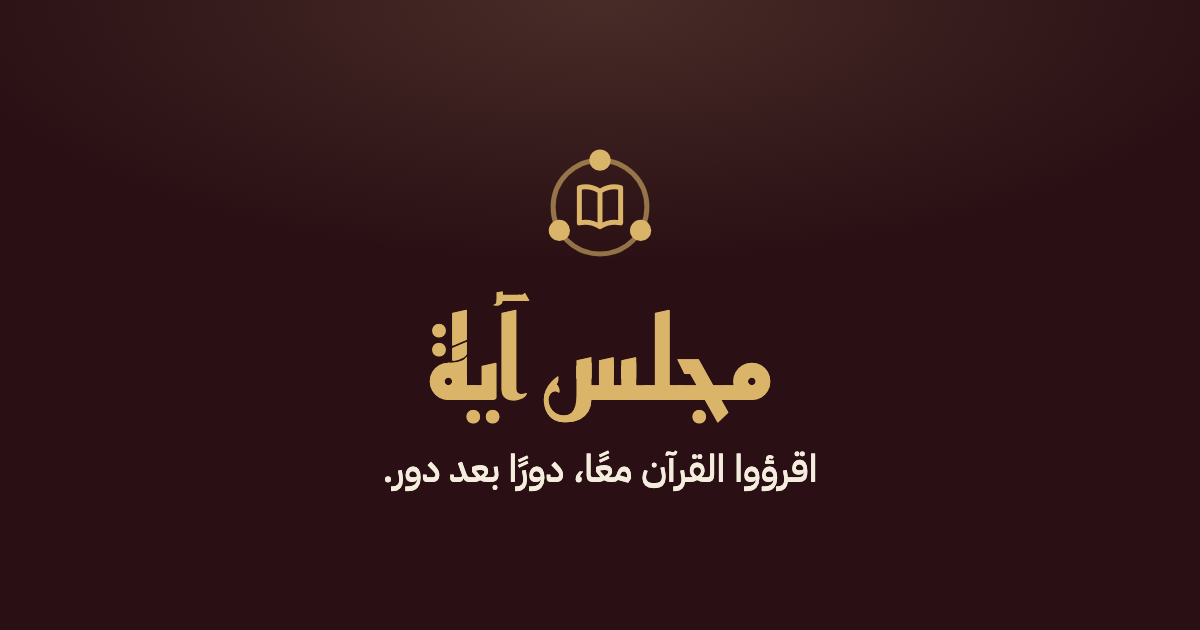
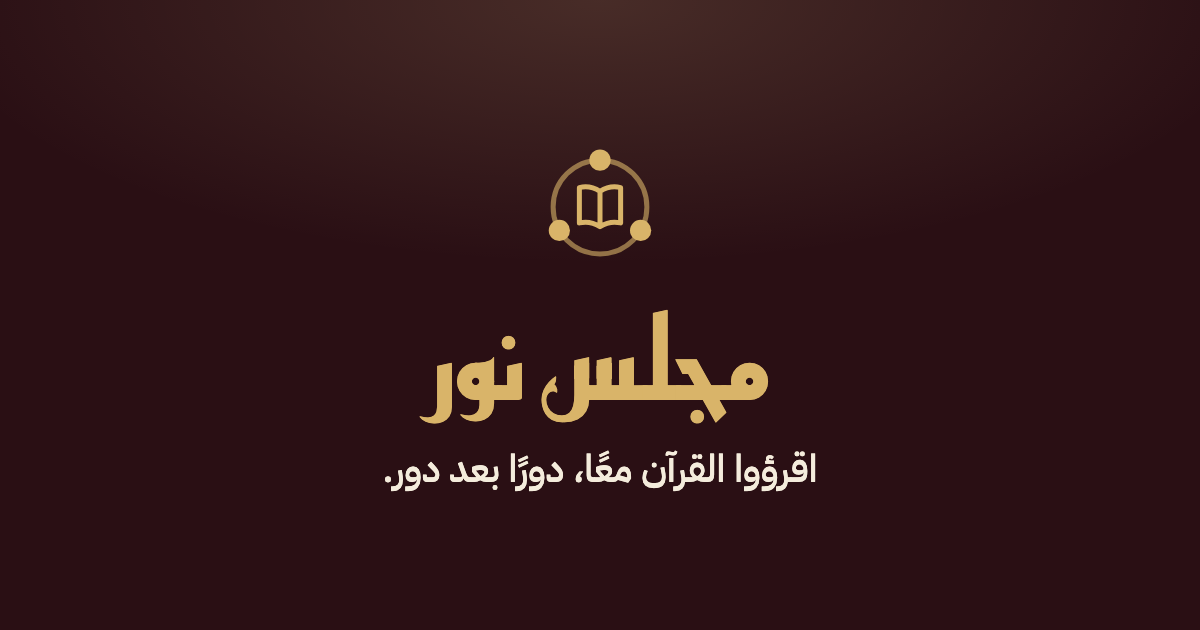
Call the app Majlis Noor
The app is now مجلس نور, at /majlis-noor/. Its halaqa is kept under
majlis-noor:v1; a halaqa saved under the old name's key on this origin
is read when the new key is empty and moved over on the first save, and
the theme script in index.html reads both. The service worker drops the
caches it made under the old name, and the share card carries the new
one.

Changed region(s): [[0.3392, 0.4524, 0.6475, 0.6937], [0.5858, 0.6333, 0.6167, 0.6635]]

diff --git a/index.html b/index.html
@@ -16,7 +16,7 @@
     <link rel="manifest" href="%BASE_URL%manifest.webmanifest" />
     <meta name="apple-mobile-web-app-capable" content="yes" />
     <meta name="mobile-web-app-capable" content="yes" />
-    <meta name="apple-mobile-web-app-title" content="مجلس آية" />
+    <meta name="apple-mobile-web-app-title" content="مجلس نور" />
     <link rel="preconnect" href="https://fonts.googleapis.com" />
     <link rel="preconnect" href="https://fonts.gstatic.com" crossorigin />
     <link rel="preconnect" href="https://static.qurancdn.com" crossorigin />
@@ -24,21 +24,21 @@
       rel="stylesheet"
       href="https://fonts.googleapis.com/css2?family=Amiri:wght@400;700&family=Amiri+Quran&family=IBM+Plex+Sans+Arabic:wght@400;500;600&family=Reem+Kufi:wght@500;600&display=swap"
     />
-    <title>مجلس آية، حلقة قرآن أينما كنتم</title>
+    <title>مجلس نور، حلقة قرآن أينما كنتم</title>
     <meta
       name="description"
       content="حلقة قرآن صغيرة من قارئ إلى ثلاثة، يتناوبون القراءة في مصحف المدينة صفحةً صفحة، كما يجلسون في حلقة المسجد."
     />
-    <meta property="og:title" content="مجلس آية" />
+    <meta property="og:title" content="مجلس نور" />
     <meta property="og:description" content="اقرؤوا القرآن معًا، دورًا بعد دور، في مصحف المدينة." />
     <meta property="og:locale" content="ar_AR" />
     <meta property="og:type" content="website" />
     <meta property="og:image" content="%SHARE_CARD%" />
     <meta property="og:image:width" content="1200" />
     <meta property="og:image:height" content="630" />
-    <meta property="og:image:alt" content="شعار مجلس آية: ثلاثة مقاعد حول دائرة يتوسطها مصحف، على خلفية عنّابية." />
+    <meta property="og:image:alt" content="شعار مجلس نور: ثلاثة مقاعد حول دائرة يتوسطها مصحف، على خلفية عنّابية." />
     <meta name="twitter:card" content="summary_large_image" />
-    <meta name="twitter:title" content="مجلس آية" />
+    <meta name="twitter:title" content="مجلس نور" />
     <meta name="twitter:image" content="%SHARE_CARD%" />
     <style>
       /* Painted before the bundle loads, in the theme the reader chose, so a
@@ -51,7 +51,13 @@
     </style>
     <script>
       try {
-        var saved = JSON.parse(localStorage.getItem('majlis-ayah:v1') || 'null');
+        // The key the app keeps its halaqa under, or the one it used as
+        // مجلس آية, which src/halaqa/storage.ts adopts on first load.
+        var saved = JSON.parse(
+          localStorage.getItem('majlis-noor:v1') ||
+            localStorage.getItem('majlis-ayah:v1') ||
+            'null'
+        );
         var theme = saved && saved.prefs && saved.prefs.theme;
         var colors = { burgundy: '#2a0f14', green: '#0c2019', blue: '#0d1729' };
         if (colors[theme]) {
@@ -62,9 +68,9 @@
     </script>
   </head>
   <body>
-    <div id="root"><div class="boot" role="status">مجلس آية</div></div>
+    <div id="root"><div class="boot" role="status">مجلس نور</div></div>
     <noscript>
-      <p style="color:#f3ead8;text-align:center;font-family:system-ui;padding:24px">يحتاج مجلس آية إلى تفعيل جافاسكربت.</p>
+      <p style="color:#f3ead8;text-align:center;font-family:system-ui;padding:24px">يحتاج مجلس نور إلى تفعيل جافاسكربت.</p>
     </noscript>
     <script type="module" src="/src/main.tsx"></script>
   </body>

diff --git a/src/halaqa/storage.ts b/src/halaqa/storage.ts
@@ -3,16 +3,22 @@
    with the same reader. Nothing is sent anywhere.
 
    The key is part of the contract with every device that already has a
-   halaqa saved under it. Renaming it needs a read that adopts the old key,
-   and `index.html` reads it too, to paint the theme before the bundle loads. */
+   halaqa saved under it, and `index.html` reads it too, to paint the theme
+   before the bundle loads. The app was first called مجلس آية and kept its
+   halaqa under that name's key; it is read when the new one is empty, and
+   removed once the halaqa is saved under the new one. Both apps lived on
+   the same origin, so the old halaqa is right there to adopt. */
 
 import { initialState, sanitizeState, type State } from './state';
 
-export const STORAGE_KEY = 'majlis-ayah:v1';
+export const STORAGE_KEY = 'majlis-noor:v1';
+export const LEGACY_KEYS = ['majlis-ayah:v1'];
 
 export function loadState(): State {
   try {
-    const raw = localStorage.getItem(STORAGE_KEY);
+    const raw = [STORAGE_KEY, ...LEGACY_KEYS]
+      .map((key) => localStorage.getItem(key))
+      .find((value) => value !== null);
     return raw ? sanitizeState(JSON.parse(raw)) : initialState;
   } catch {
     // Storage blocked (a private window, a sandboxed frame) or a corrupt
@@ -24,6 +30,7 @@ export function loadState(): State {
 export function saveState(state: State) {
   try {
     localStorage.setItem(STORAGE_KEY, JSON.stringify(state));
+    for (const key of LEGACY_KEYS) localStorage.removeItem(key);
   } catch {
     // A refused write loses only the ability to resume after a refresh; the
     // halaqa in front of the reader carries on.

diff --git a/public/sw.js b/public/sw.js
@@ -1,4 +1,4 @@
-/* Keeps Majlis Ayah usable with a weak or absent connection, which is what a
+/* Keeps Majlis Noor usable with a weak or absent connection, which is what a
    mosque often has.
 
    - The page itself is network-first, so a deploy is picked up on the next
@@ -12,9 +12,15 @@
 
    Bump VERSION to drop every cache this worker made. */
 
-const VERSION = 'v2';
-const SHELL = `majlis-ayah-shell-${VERSION}`;
-const ASSETS = `majlis-ayah-assets-${VERSION}`;
+const VERSION = 'v3';
+const SHELL = `majlis-noor-shell-${VERSION}`;
+const ASSETS = `majlis-noor-assets-${VERSION}`;
+
+/* Caches this worker made under the app's first name, مجلس آية, which
+   share this origin and would otherwise stay on the device for good. */
+const STALE = (key) =>
+  key.startsWith('majlis-ayah-') ||
+  (key.startsWith('majlis-noor-') && !key.endsWith(VERSION));
 
 self.addEventListener('install', (event) => {
   event.waitUntil(
@@ -30,11 +36,7 @@ self.addEventListener('activate', (event) => {
     caches
       .keys()
       .then((keys) =>
-        Promise.all(
-          keys
-            .filter((k) => k.startsWith('majlis-ayah-') && !k.endsWith(VERSION))
-            .map((k) => caches.delete(k)),
-        ),
+        Promise.all(keys.filter(STALE).map((k) => caches.delete(k))),
       )
       .then(() => self.clients.claim()),
   );

diff --git a/src/halaqa/storage.test.ts b/src/halaqa/storage.test.ts
@@ -1,0 +1,40 @@
+import { describe, expect, it } from 'vitest';
+import { LEGACY_KEYS, loadState, saveState, STORAGE_KEY } from './storage';
+
+describe('the saved halaqa', () => {
+  it('is adopted from the key the app kept it under as مجلس آية', () => {
+    localStorage.setItem(
+      LEGACY_KEYS[0],
+      JSON.stringify({
+        prefs: { theme: 'green', view: 'halaqa' },
+        config: { startPage: 50 },
+        session: null,
+      }),
+    );
+    const state = loadState();
+    expect(state.prefs.theme).toBe('green');
+    expect(state.config.startPage).toBe(50);
+    saveState(state);
+    expect(localStorage.getItem(LEGACY_KEYS[0])).toBeNull();
+    expect(JSON.parse(localStorage.getItem(STORAGE_KEY)!).prefs.theme).toBe(
+      'green',
+    );
+  });
+
+  it('prefers the current key to the old one', () => {
+    localStorage.setItem(
+      LEGACY_KEYS[0],
+      JSON.stringify({ prefs: { theme: 'green' } }),
+    );
+    localStorage.setItem(
+      STORAGE_KEY,
+      JSON.stringify({ prefs: { theme: 'blue' } }),
+    );
+    expect(loadState().prefs.theme).toBe('blue');
+  });
+
+  it('starts fresh from a value it cannot read', () => {
+    localStorage.setItem(STORAGE_KEY, '{not json');
+    expect(loadState().session).toBeNull();
+  });
+});

diff --git a/src/components/SettingsPanel.tsx b/src/components/SettingsPanel.tsx
@@ -164,7 +164,7 @@ export function SettingsPanel({
         aria-labelledby="settings-about"
       >
         <h3 id="settings-about" className="settings-heading">
-          عن مجلس آية
+          عن مجلس نور
         </h3>
         <p>
           صفحات مصحف المدينة النبوية برواية حفص، طبعة مجمع الملك فهد لطباعة
@@ -178,7 +178,7 @@ export function SettingsPanel({
           </a>
           . صور القرّاء من ويكيميديا كومنز، ومصدر كل صورة وترخيصها في{' '}
           <a
-            href="https://github.com/edriso/majlis-ayah/blob/main/NOTICE"
+            href="https://github.com/edriso/majlis-noor/blob/main/NOTICE"
             target="_blank"
             rel="noreferrer"
           >
@@ -189,7 +189,7 @@ export function SettingsPanel({
         <p>يُحفظ كل شيء على جهازك وحده، ولا يُرسل إلى أحد.</p>
         <p>
           <a
-            href="https://github.com/edriso/majlis-ayah"
+            href="https://github.com/edriso/majlis-noor"
             target="_blank"
             rel="noreferrer"
           >

diff --git a/scripts/make-assets.ts b/scripts/make-assets.ts
@@ -17,7 +17,7 @@ import { join } from 'node:path';
 const chrome =
   process.env.CHROME ??
   '/Applications/Google Chrome.app/Contents/MacOS/Google Chrome';
-const work = mkdtempSync(join(tmpdir(), 'majlis-ayah-assets-'));
+const work = mkdtempSync(join(tmpdir(), 'majlis-noor-assets-'));
 const mark = readFileSync('public/favicon.svg', 'utf8')
   .replace(/<rect[^>]*\/>/, '')
   .replace('<svg ', '<svg width="100%" height="100%" ');
@@ -82,7 +82,7 @@ shoot(
   630,
   `<div style="display:grid;justify-items:center;gap:18px;color:#d9b469;text-align:center">
      <div style="width:150px;height:150px">${mark}</div>
-     <div style="font:600 112px/1.1 'Reem Kufi',sans-serif">مجلس آية</div>
+     <div style="font:600 112px/1.1 'Reem Kufi',sans-serif">مجلس نور</div>
      <div style="font:500 38px/1.5 'IBM Plex Sans Arabic',sans-serif;color:#f4ecdc">اقرؤوا القرآن معًا، دورًا بعد دور.</div>
    </div>`,
 );

diff --git a/src/components/ReadingScreen.tsx b/src/components/ReadingScreen.tsx
@@ -254,7 +254,7 @@ export function ReadingScreen({
       <main className="reading-main">
         {/* The brand in the bar says which app this is; the heading says
             where in it a screen reader has landed. */}
-        <h1 className="visually-hidden">مجلس آية: الحلقة</h1>
+        <h1 className="visually-hidden">مجلس نور: الحلقة</h1>
         <aside className="reading-side reading-circle" aria-label="الحلقة">
           {circle}
           <p className="progress-note">

diff --git a/src/components/SetupScreen.tsx b/src/components/SetupScreen.tsx
@@ -44,7 +44,7 @@ export function SetupScreen({
       <header className="setup-intro">
         <LogoMark size={64} />
         <h1 className="setup-title">
-          <span className="setup-title-ar">مجلس آية</span>
+          <span className="setup-title-ar">مجلس نور</span>
         </h1>
         <p className="setup-tagline">حلقة قرآن، أينما كنتم.</p>
       </header>

diff --git a/src/components/Logo.tsx b/src/components/Logo.tsx
@@ -38,7 +38,7 @@ export function Brand({ compact = false }: { compact?: boolean }) {
   return (
     <span className={compact ? 'brand brand-compact' : 'brand'}>
       <LogoMark size={compact ? 30 : 40} />
-      <span className="brand-name">مجلس آية</span>
+      <span className="brand-name">مجلس نور</span>
     </span>
   );
 }

diff --git a/src/app.test.tsx b/src/app.test.tsx
@@ -18,7 +18,7 @@ describe('the start screen', () => {
   it('names the app once, as the page heading', () => {
     render(<App />);
     expect(screen.getByRole('heading', { level: 1 }).textContent).toBe(
-      'مجلس آية',
+      'مجلس نور',
     );
   });
 

diff --git a/AGENTS.md b/AGENTS.md
@@ -1,13 +1,17 @@
 # AGENTS.md
 
-Notes for anyone, human or AI, working on Majlis Ayah.
+Notes for anyone, human or AI, working on Majlis Noor.
 
 ## What this app is
 
-Majlis Ayah (`مجلس آية`) recreates a Quran halaqa in a mosque: one to three
+Majlis Noor (`مجلس نور`) recreates a Quran halaqa in a mosque: one to three
 readers sit in a circle and take turns reading the Madani Mushaf, page by
 page. It is a static web app. There is no server, no database, no accounts
 and no analytics; everything a reader does stays in their browser.
+
+The app was called Majlis Ayah (`مجلس آية`) at first. The old name survives
+in exactly two places, both on purpose: the storage key it adopts (see
+below) and the service worker's clean-up of its old caches.
 
 There are two screens and no router:
 
@@ -92,14 +96,16 @@ the print is; see `src/mushaf/AGENTS.md`.
 **Do not send user data anywhere.** The halaqa (names, page, settings) lives
 in `localStorage` under one key and nowhere else.
 
-**The storage key is a contract.** It is `majlis-ayah:v1`, read by
+**The storage key is a contract.** It is `majlis-noor:v1`, read by
 `src/halaqa/storage.ts` and again by the inline script in `index.html` that
-paints the theme before the bundle loads. Renaming it strands every saved
-halaqa unless the first read adopts the old key. Whatever is read back goes
-through `sanitizeState()`, which never trusts it.
+paints the theme before the bundle loads. Both also read the old name's key,
+`majlis-ayah:v1`, when the new one is empty, and the first save removes it:
+the two names share the `edriso.github.io` origin, so a halaqa saved under
+the old one is there to adopt. Renaming the key again needs the same.
+Whatever is read back goes through `sanitizeState()`, which never trusts it.
 
 **Nothing may assume the site's path.** GitHub Pages serves the app under
-`/majlis-ayah/`. `vite.config.ts` takes `base` from `VITE_BASE_PATH`, which the
+`/majlis-noor/`. `vite.config.ts` takes `base` from `VITE_BASE_PATH`, which the
 workflow takes from `actions/configure-pages`. So:
 
 - In `index.html`, every path goes through `%BASE_URL%`. A hand-written
@@ -236,4 +242,5 @@ again.
 
 `public/sw.js` is a hand-written service worker, registered only in
 production: the page network-first, hashed assets and page fonts cache-first,
-recitations never cached. Bump its `VERSION` to drop every cache it made.
+recitations never cached. Bump its `VERSION` to drop every cache it made; it
+also drops the caches it made under the app's first name.

diff --git a/README.md b/README.md
@@ -1,8 +1,8 @@
-# مجلس آية
+# مجلس نور
 
-[افتح التطبيق](https://edriso.github.io/majlis-ayah/)
+[افتح التطبيق](https://edriso.github.io/majlis-noor/)
 
-مجلس آية حلقةُ قرآنٍ صغيرة على الشاشة، كما يجلس القرّاء في حلقة المسجد: من قارئ واحد إلى ثلاثة، يتناوبون القراءة في مصحف المدينة النبوية صفحةً صفحة. يقرأ الأول صفحته، ثم الثاني، ثم الثالث، ثم يعود الدور إلى الأول.
+مجلس نور حلقةُ قرآنٍ صغيرة على الشاشة، كما يجلس القرّاء في حلقة المسجد: من قارئ واحد إلى ثلاثة، يتناوبون القراءة في مصحف المدينة النبوية صفحةً صفحة. يقرأ الأول صفحته، ثم الثاني، ثم الثالث، ثم يعود الدور إلى الأول.
 
 افتح التطبيق، واختر حلقتك، واقرؤوا معًا. لا حساب ولا خادم، وكل شيء يبقى على جهازك.
 
@@ -66,6 +66,8 @@ npm run build      # فحص الأنواع ثم البناء
 ```
 
 اقرأ [AGENTS.md](AGENTS.md) قبل أي تعديل، ثم [docs/CONTRIBUTING.md](docs/CONTRIBUTING.md) لأول تغيير. ويُنشر التطبيق على GitHub Pages تلقائيًا عند كل دفع إلى `main`.
+
+كان اسم التطبيق «مجلس آية»، والحلقة المحفوظة باسمه القديم تُنقل إلى الجديد وحدها.
 
 ## الترخيص
 
